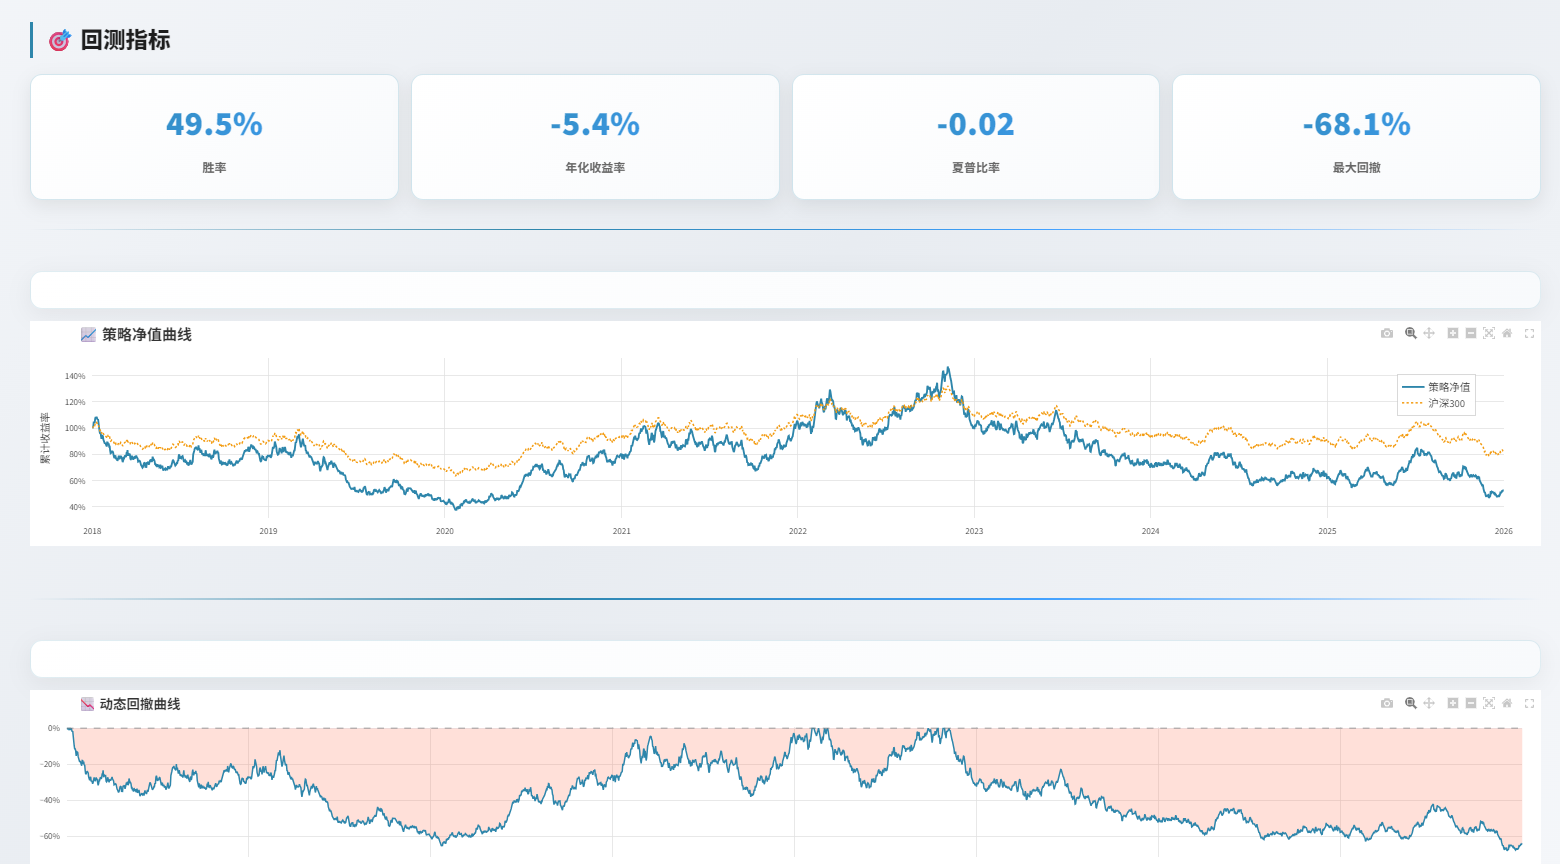
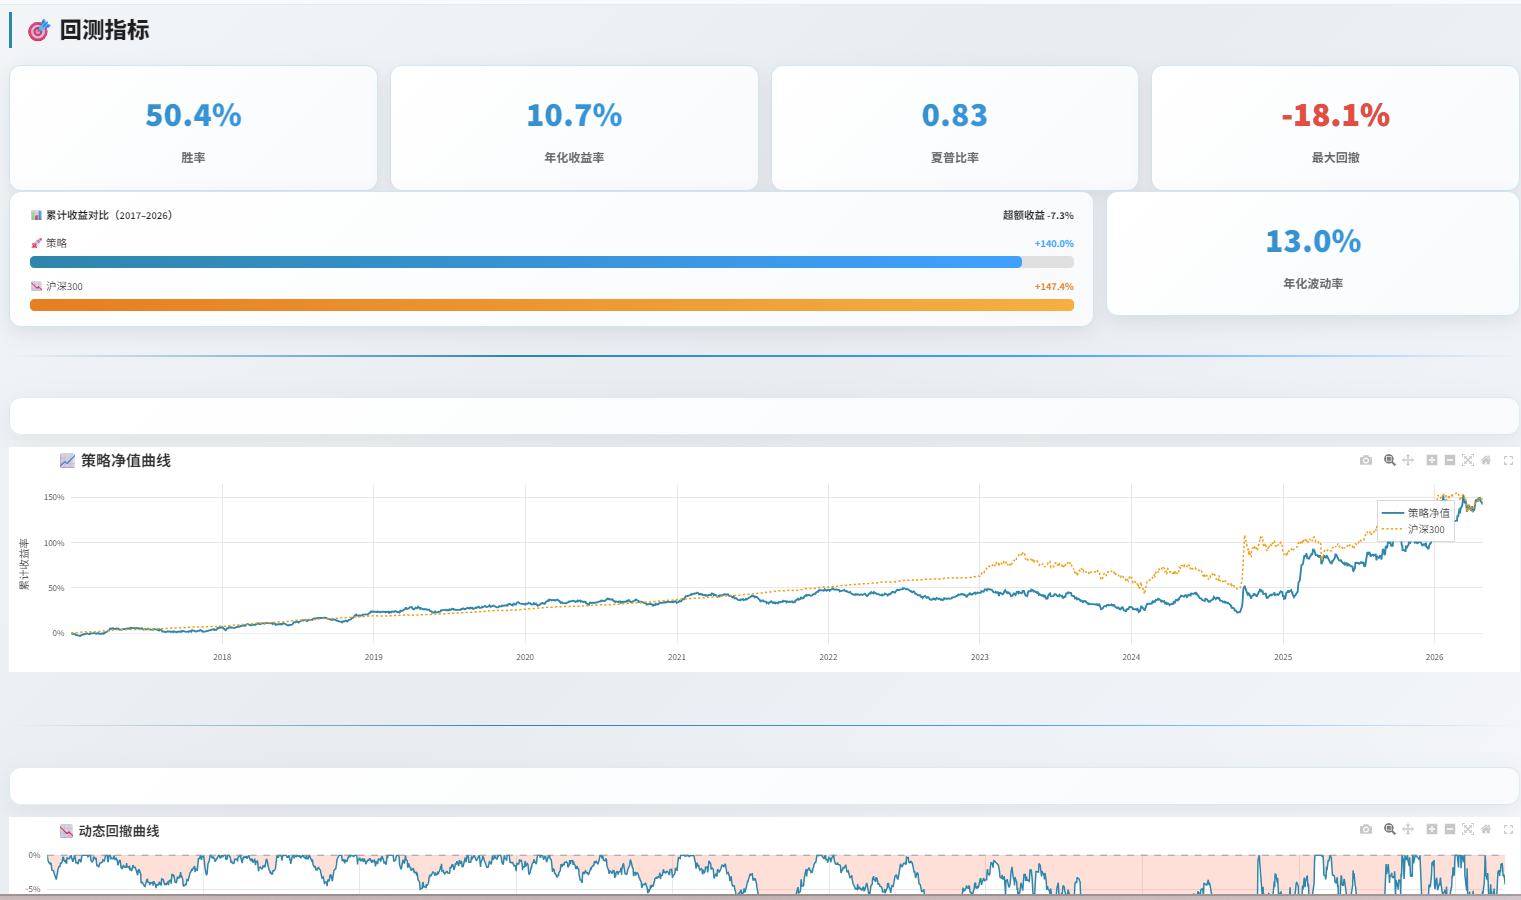
feat(project-01): backtest page now reads real backtest results; redesign metrics layout

diff --git a/projects/01-a-stock-quant-analysis/app_pro.py b/projects/01-a-stock-quant-analysis/app_pro.py
@@ -1459,55 +1459,57 @@ def show_dashboard():
     """, unsafe_allow_html=True)
 
 
+@st.cache_data(ttl=600)
+def _load_backtest_results():
+    """读取 backtest.py 输出的真实回测结果（T+1 成交口径）"""
+    metrics_path = _P('backtest_results', 'backtest_metrics.csv')
+    daily_path = _P('backtest_results', 'backtest_results.csv')
+    hold_path = _P('backtest_results', 'daily_portfolios.csv')
+    df_m = pd.read_csv(metrics_path) if os.path.exists(metrics_path) else None
+    df_r = pd.read_csv(daily_path, parse_dates=['date']) if os.path.exists(daily_path) else None
+    df_h = pd.read_csv(hold_path, parse_dates=['date']) if os.path.exists(hold_path) else None
+    return df_m, df_r, df_h
+
+
 def show_backtest():
     st.markdown("<div class='main-title'>📊 策略回测</div>", unsafe_allow_html=True)
     theme = st.session_state.get('theme', 'dark')
     colors = get_theme_colors('深色主题' if theme == 'dark' else theme)
-    df_factors, _, _ = load_data()
-    st.markdown("<div class='section-title'>⚙ 回测参数设置</div>", unsafe_allow_html=True)
-    default_top_n = st.session_state.get('top_n', 20)
-    col_p1, col_p2, col_p3, col_p4, col_p5 = st.columns(5)
-    with col_p1:
-        top_n = st.number_input("选股数量", min_value=5, max_value=50, value=int(default_top_n), key='bt_top_n')
-    with col_p2:
-        rebalance_freq = st.selectbox("调仓频率", ["每日", "每周", "每月"], key='bt_rebalance')
-    with col_p3:
-        commission_rate = st.number_input("佣金率(%)", min_value=0.0, max_value=1.0, value=0.1, step=0.01, key='bt_commission')
-    with col_p4:
-        stop_loss = st.number_input("止损阈值(%)", min_value=-15.0, max_value=-1.0, value=-5.0, step=0.5, key='bt_stop_loss')
-    with col_p5:
-        benchmark_choice = st.selectbox("基准选择", ["沪深300", "中证500", "上证50"], key='bt_benchmark')
-    if st.button("🔄 重新运行回测", use_container_width=True, key='rerun_backtest'):
-        st.session_state.top_n = top_n
-        if st.session_state.username:
-            db_update_user(st.session_state.username, top_n=top_n)
-        st.session_state.bt_rerun = True
-    rerun_flag = st.session_state.get('bt_rerun', False)
-    np.random.seed(42)
-    dates = pd.date_range(start='2018-01-01', end='2026-01-01', freq='D')
-    freq_map = {"每日": 1, "每周": 5, "每月": 20}
-    rebalance_days = freq_map.get(rebalance_freq, 1)
-    comm = commission_rate / 100.0
-    sl = stop_loss / 100.0
-    base_vol = 0.02
-    if top_n > 30:
-        base_vol *= 0.95
-    if rebalance_days > 1:
-        base_vol *= 0.98
-    daily_returns = np.random.normal(0.0003, base_vol, len(dates))
-    for i in range(len(daily_returns)):
-        if daily_returns[i] < sl:
-            daily_returns[i] = sl
-    daily_returns -= comm / rebalance_days
-    strategy_values = np.cumprod(1 + daily_returns)
-    bench_map = {"沪深300": 0.5, "中证500": 0.45, "上证50": 0.55}
-    bench_factor = bench_map.get(benchmark_choice, 0.5)
-    benchmark_values = np.cumprod(1 + daily_returns * bench_factor)
-    win_rate = (daily_returns > 0).mean()
-    annual_return = (strategy_values[-1] ** (252 / len(dates)) - 1)
-    sharpe = (daily_returns.mean() / daily_returns.std()) * np.sqrt(252) if daily_returns.std() > 0 else 0
-    drawdown_arr = strategy_values / np.maximum.accumulate(strategy_values) - 1
-    max_dd = drawdown_arr.min()
+
+    # ===== 直接读取 backtest.py 生成的真实回测结果 =====
+    df_metrics, df_bt, df_hold = _load_backtest_results()
+    if df_metrics is None or df_bt is None or df_bt.empty:
+        st.markdown("<div style='padding:12px 16px;border-radius:8px;background:rgba(241,196,15,0.12);color:#f39c12;font-size:15px;'>"
+                    "⚠ 未找到真实回测结果文件（backtest_results/backtest_metrics.csv）。<br>"
+                    "请先在项目目录运行 <code>python backtest.py</code> 生成回测结果，完成后刷新本页。</div>", unsafe_allow_html=True)
+        return
+    m = df_metrics.iloc[0]
+    df_bt = df_bt.sort_values('date').reset_index(drop=True)
+    dates = df_bt['date']
+    equity = df_bt['equity_curve']
+    strat_cum = equity / equity.iloc[0] - 1
+    bench_cum = df_bt['benchmark_equity'] / df_bt['benchmark_equity'].iloc[0] - 1
+    drawdown_arr = equity / equity.cummax() - 1
+
+    win_rate = float(m['win_rate'])
+    annual_return = float(m['annualized_return'])
+    sharpe = float(m['sharpe_ratio'])
+    max_dd = float(m['max_drawdown'])
+    total_return = float(m['total_return'])
+    excess_return = float(m['excess_return'])
+    ann_vol = float(m['annualized_volatility'])
+    bench_total = float(m['benchmark_total_return'])
+    init_capital = float(m['initial_capital'])
+    n_per_day = int(m['n_stocks_per_day'])
+    start_d = dates.iloc[0].strftime('%Y-%m-%d')
+    end_d = dates.iloc[-1].strftime('%Y-%m-%d')
+
+    st.markdown(f"""
+        <div class="custom-info-box">
+            <p style="margin: 0;">⚙ 回测配置（真实回测结果，由 <code>backtest.py</code> 按滚动窗口 Walk-Forward 生成）：</p>
+            <p style="margin: 5px 0 0 20px;">- 回测区间：<b>{start_d} ~ {end_d}</b> ｜ 初始资金：<b>{init_capital:,.0f}</b> ｜ 每日持股：<b>{n_per_day} 只</b></p>
+        </div>
+    """, unsafe_allow_html=True)
     st.markdown("<div class='divider'></div>", unsafe_allow_html=True)
     st.markdown("<div class='section-title'>🎯 回测指标</div>", unsafe_allow_html=True)
     col1, col2, col3, col4 = st.columns(4)
@@ -1518,12 +1520,47 @@ def show_backtest():
     with col3:
         st.markdown(f"<div class='metric-card'><div class='metric-value'>{sharpe:.2f}</div><div class='metric-label'>夏普比率</div></div>", unsafe_allow_html=True)
     with col4:
-        st.markdown(f"<div class='metric-card'><div class='metric-value'>{max_dd:.1%}</div><div class='metric-label'>最大回撤</div></div>", unsafe_allow_html=True)
+        st.markdown(f"<div class='metric-card'><div class='metric-value' style='color:#e74c3c; -webkit-text-fill-color:#e74c3c;'>{max_dd:.1%}</div><div class='metric-label'>最大回撤</div></div>", unsafe_allow_html=True)
+    # 第二行：宽幅"策略 vs 基准"收益对比条 + 窄幅波动率卡，主次分明不呆板
+    col_a, col_b = st.columns([2.6, 1])
+    with col_a:
+        max_val = max(abs(total_return), abs(bench_total)) or 1
+        w_strat = abs(total_return) / max_val * 100
+        w_bench = abs(bench_total) / max_val * 100
+        excess_color = '#e74c3c' if excess_return < 0 else '#27ae60'
+        txt = colors.get('secondary_text', '#7a8ba6')
+        track = colors.get('grid_color', '#e9eef5')
+        st.markdown(f"""
+            <div class='metric-card' style='padding: 20px 26px;'>
+                <div style='display:flex; justify-content:space-between; align-items:baseline; margin-bottom:16px;'>
+                    <span style='font-size:14px; color:{txt}; font-weight:600;'>📊 累计收益对比（{start_d[:4]}–{end_d[:4]}）</span>
+                    <span style='font-size:14px; color:{excess_color}; font-weight:700;'>超额收益 {excess_return:+.1%}</span>
+                </div>
+                <div style='margin-bottom:14px;'>
+                    <div style='display:flex; justify-content:space-between; font-size:14px; color:{txt}; margin-bottom:5px;'>
+                        <span>🚀 策略</span><b style='color:#40A0FF;'>{total_return:+.1%}</b>
+                    </div>
+                    <div style='background:{track}; border-radius:6px; height:16px;'>
+                        <div style='width:{w_strat:.0f}%; height:100%; border-radius:6px; background:linear-gradient(90deg,#2E86AB,#40A0FF);'></div>
+                    </div>
+                </div>
+                <div>
+                    <div style='display:flex; justify-content:space-between; font-size:14px; color:{txt}; margin-bottom:5px;'>
+                        <span>📉 沪深300</span><b style='color:#e67e22;'>{bench_total:+.1%}</b>
+                    </div>
+                    <div style='background:{track}; border-radius:6px; height:16px;'>
+                        <div style='width:{w_bench:.0f}%; height:100%; border-radius:6px; background:linear-gradient(90deg,#e67e22,#f5b041);'></div>
+                    </div>
+                </div>
+            </div>
+        """, unsafe_allow_html=True)
+    with col_b:
+        st.markdown(f"<div class='metric-card'><div class='metric-value'>{ann_vol:.1%}</div><div class='metric-label'>年化波动率</div></div>", unsafe_allow_html=True)
     st.markdown("<div class='divider'></div>", unsafe_allow_html=True)
     with st_card():
         fig = go.Figure()
-        fig.add_trace(go.Scatter(x=dates, y=strategy_values, name='策略净值', line=dict(color=colors['accent'], width=2.5), mode='lines'))
-        fig.add_trace(go.Scatter(x=dates, y=benchmark_values, name=benchmark_choice, line=dict(color=colors['success'], width=2, dash='dot'), showlegend=True))
+        fig.add_trace(go.Scatter(x=dates, y=strat_cum, name='策略净值', line=dict(color=colors['accent'], width=2.5), mode='lines'))
+        fig.add_trace(go.Scatter(x=dates, y=bench_cum, name='沪深300', line=dict(color=colors['success'], width=2, dash='dot'), showlegend=True))
         fig.update_layout(height=300, plot_bgcolor=colors['plot_bg'], paper_bgcolor=colors['paper_bg'], font=dict(color=colors['font_color']), title=dict(text='📈 策略净值曲线', font=dict(size=20, color=colors['font_color']), x=0.03, xanchor='left'), showlegend=True, legend=dict(font=dict(size=14, color=colors['font_color']), bgcolor=colors['legend_bg'], bordercolor=colors['legend_border'], borderwidth=1, yanchor='top', y=0.9, xanchor='right', x=0.98), margin=dict(l=40, r=50, t=50, b=20), xaxis=dict(showgrid=True, gridcolor=colors['grid_color'], tickfont=dict(size=12, color=colors['font_color']), tickformat='%Y'), yaxis=dict(title=dict(text='累计收益率', font=dict(color=colors['font_color'])), tickfont=dict(size=12, color=colors['font_color']), showgrid=True, gridcolor=colors['grid_color'], tickformat='.0%'))
         st.plotly_chart(fig, use_container_width=True, config={'displayModeBar': True})
     st.markdown("<div class='divider'></div>", unsafe_allow_html=True)
@@ -1535,65 +1572,45 @@ def show_backtest():
         st.plotly_chart(fig_dd, use_container_width=True, config={'displayModeBar': True})
     st.markdown("""
         <div class="custom-info-box">
-            <p style="margin: 0;">💡 回测说明：</p>
-            <p style="margin: 5px 0 0 20px;">- 策略：基于多因子综合评分（动量、RSI、MACD、波动率等），每日买入评分最高的N只股票</p>
-            <p style="margin: 5px 0 0 20px;">- 信号生成：使用前一日因子排名，避免未来信息泄露</p>
-            <p style="margin: 5px 0 0 20px;">- 买入价格：次日开盘价（更贴近真实交易）</p>
-            <p style="margin: 5px 0 0 20px;">- 交易成本：含佣金和印花税（卖出千分之一）</p>
+            <p style="margin: 0;">💡 回测说明（真实口径）：</p>
+            <p style="margin: 5px 0 0 20px;">- 策略：基于多因子综合评分（动量、RSI、MACD、波动率等）排序，每日买入评分最高的前 N 只股票</p>
+            <p style="margin: 5px 0 0 20px;">- 成交口径：T 日收盘后生成信号，T+1 日收盘价成交（T+1 规则，避免未来函数）</p>
+            <p style="margin: 5px 0 0 20px;">- 模型：XGBoost 滚动窗口 Walk-Forward 训练，仅用历史窗口数据，杜绝数据泄露</p>
+            <p style="margin: 5px 0 0 20px;">- 交易成本：包含佣金与印花税；基准：沪深300</p>
         </div>
         """, unsafe_allow_html=True)
     st.markdown("<div class='divider'></div>", unsafe_allow_html=True)
-    st.markdown("<div class='section-title'>📋 订单明细</div>", unsafe_allow_html=True)
-    if df_factors is not None:
-        df_factors_copy = df_factors.copy()
-        df_factors_copy['date'] = pd.to_datetime(df_factors_copy['date'])
-        bt_dates = df_factors_copy['date'].unique()
-        bt_dates = sorted(bt_dates)
-        min_bt_date = bt_dates[0].date() if len(bt_dates) > 0 else datetime(2018, 1, 1).date()
-        max_bt_date = bt_dates[-1].date() if len(bt_dates) > 0 else datetime(2026, 1, 1).date()
+    st.markdown("<div class='section-title'>📋 每日持仓明细</div>", unsafe_allow_html=True)
+    if df_hold is not None and not df_hold.empty:
+        bt_dates = sorted(df_bt['date'].dt.date.unique())
+        min_bt_date, max_bt_date = bt_dates[0], bt_dates[-1]
         filter_col1, filter_col2 = st.columns(2)
         with filter_col1:
-            bt_start = st.date_input("起始日期", value=min_bt_date, min_value=min_bt_date, max_value=max_bt_date, key='bt_order_start')
+            bt_start = st.date_input("起始日期", value=min_bt_date, min_value=min_bt_date, max_value=max_bt_date, key='bt_hold_start')
         with filter_col2:
-            bt_end = st.date_input("结束日期", value=max_bt_date, min_value=min_bt_date, max_value=max_bt_date, key='bt_order_end')
-        with st.expander("📊 查看订单明细", expanded=False):
-            np.random.seed(42)
-            sample_dates = pd.date_range(start=str(bt_start), end=str(bt_end), freq='B')
-            if len(sample_dates) > 100:
-                sample_dates = np.random.choice(sample_dates, 100, replace=False)
-                sample_dates = sorted(sample_dates)
-            order_records = []
-            for d in sample_dates:
-                n_orders = np.random.randint(1, min(top_n, 5) + 1)
-                for _ in range(n_orders):
-                    stock_code = f"{np.random.randint(600000, 688000):06d}"
-                    direction = np.random.choice(['买入', '卖出'], p=[0.6, 0.4])
-                    price = round(np.random.uniform(5, 80), 2)
-                    shares = int(np.random.choice([100, 200, 500, 1000]))
-                    order_records.append({
-                        '日期': pd.Timestamp(d).strftime('%Y-%m-%d'),
-                        '股票代码': stock_code,
-                        '方向': direction,
-                        '价格': price,
-                        '数量': shares,
-                        '金额': round(price * shares, 2),
-                        '佣金': round(price * shares * comm, 2)
-                    })
-            if order_records:
-                df_orders = pd.DataFrame(order_records)
-                st.dataframe(df_orders, use_container_width=True, height=300)
-                csv_data = df_orders.to_csv(index=False).encode('utf-8-sig')
-                st.download_button(
-                    label="📥 下载订单明细 CSV",
-                    data=csv_data,
-                    file_name=f'订单明细_{bt_start}_{bt_end}.csv',
-                    mime='text/csv',
-                    key='download_orders_csv'
-                )
-            else:
-                st.markdown("<div style='padding:8px 12px;border-radius:8px;background:rgba(52,152,219,0.1);color:#3498db;font-size:14px;'>该日期范围内无订单记录</div>", unsafe_allow_html=True)
+            bt_end = st.date_input("结束日期", value=max_bt_date, min_value=min_bt_date, max_value=max_bt_date, key='bt_hold_end')
+        df_hold_f = df_hold[(df_hold['date'].dt.date >= bt_start) & (df_hold['date'].dt.date <= bt_end)].copy()
+        if not df_hold_f.empty:
+            df_hold_f = df_hold_f.sort_values(['date', 'code'])
+            df_show = pd.DataFrame({
+                '日期': df_hold_f['date'].dt.strftime('%Y-%m-%d'),
+                '股票代码': df_hold_f['code'].apply(lambda x: str(int(x)).zfill(6)),
+                '预测收益': df_hold_f['predicted'].round(4),
+                '实际收益': df_hold_f['actual'].round(4),
+            })
+            st.dataframe(df_show, use_container_width=True, height=380)
+            csv_data = df_show.to_csv(index=False).encode('utf-8-sig')
+            st.download_button(
+                label="📥 下载持仓明细 CSV",
+                data=csv_data,
+                file_name=f'每日持仓明细_{bt_start}_{bt_end}.csv',
+                mime='text/csv',
+                key='download_holdings_csv'
+            )
+        else:
+            st.markdown("<div style='padding:8px 12px;border-radius:8px;background:rgba(52,152,219,0.1);color:#3498db;font-size:14px;'>该日期范围内无持仓记录</div>", unsafe_allow_html=True)
     else:
-        st.markdown("<div style='padding:8px 12px;border-radius:8px;background:rgba(52,152,219,0.1);color:#3498db;font-size:14px;'>请先加载数据以查看订单明细</div>", unsafe_allow_html=True)
+        st.markdown("<div style='padding:8px 12px;border-radius:8px;background:rgba(52,152,219,0.1);color:#3498db;font-size:14px;'>未找到每日持仓文件（backtest_results/daily_portfolios.csv）</div>", unsafe_allow_html=True)
 
 
 def main():
